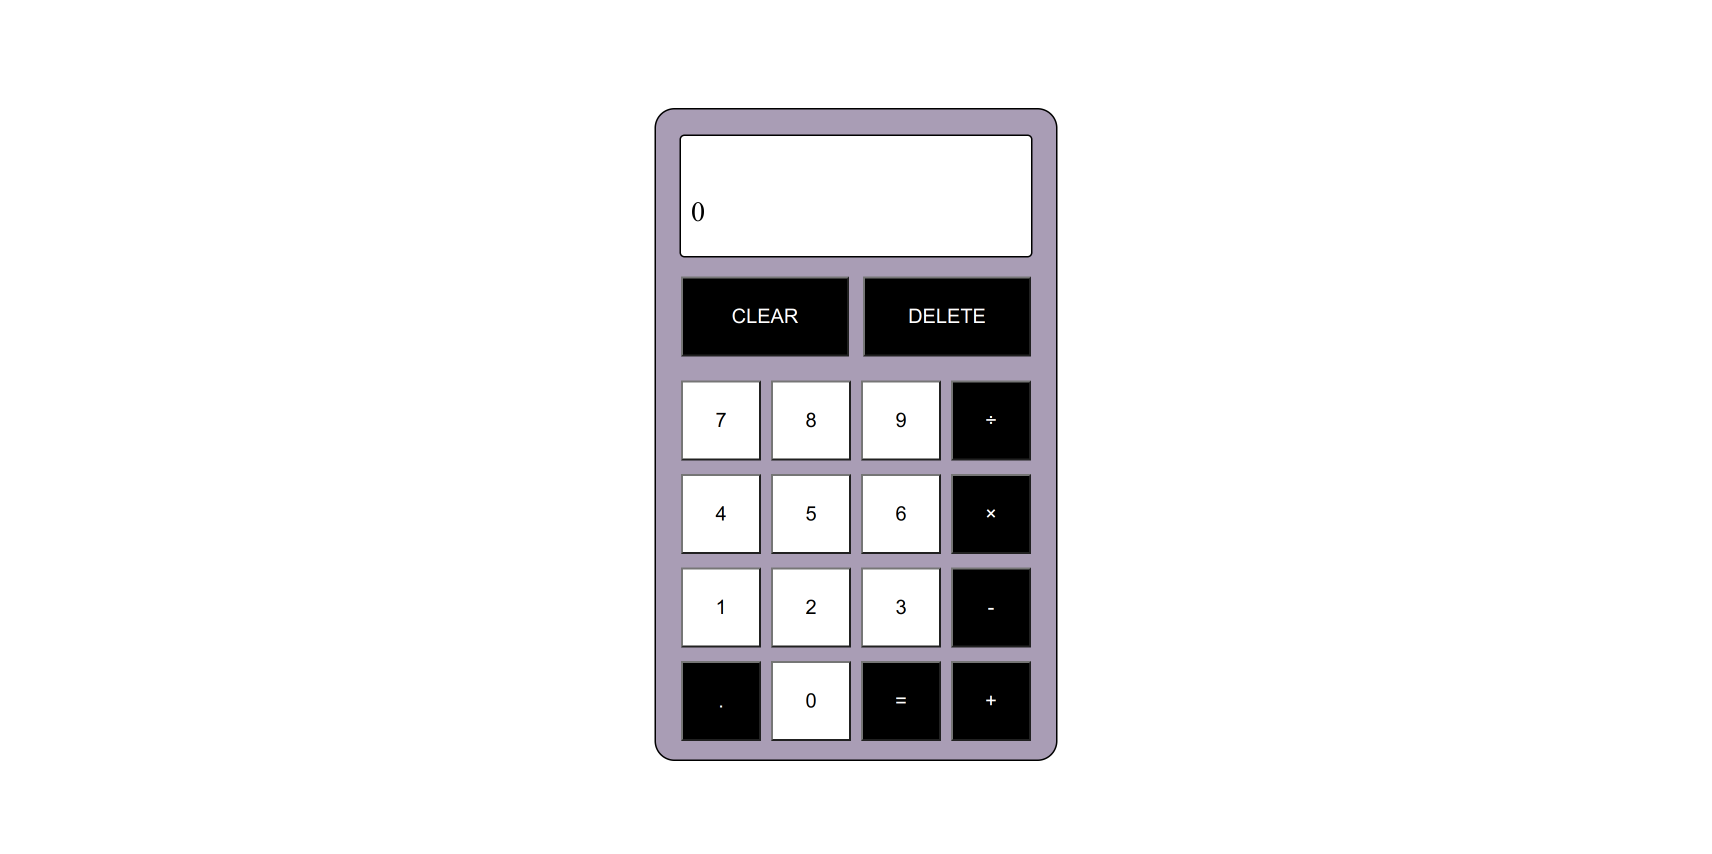
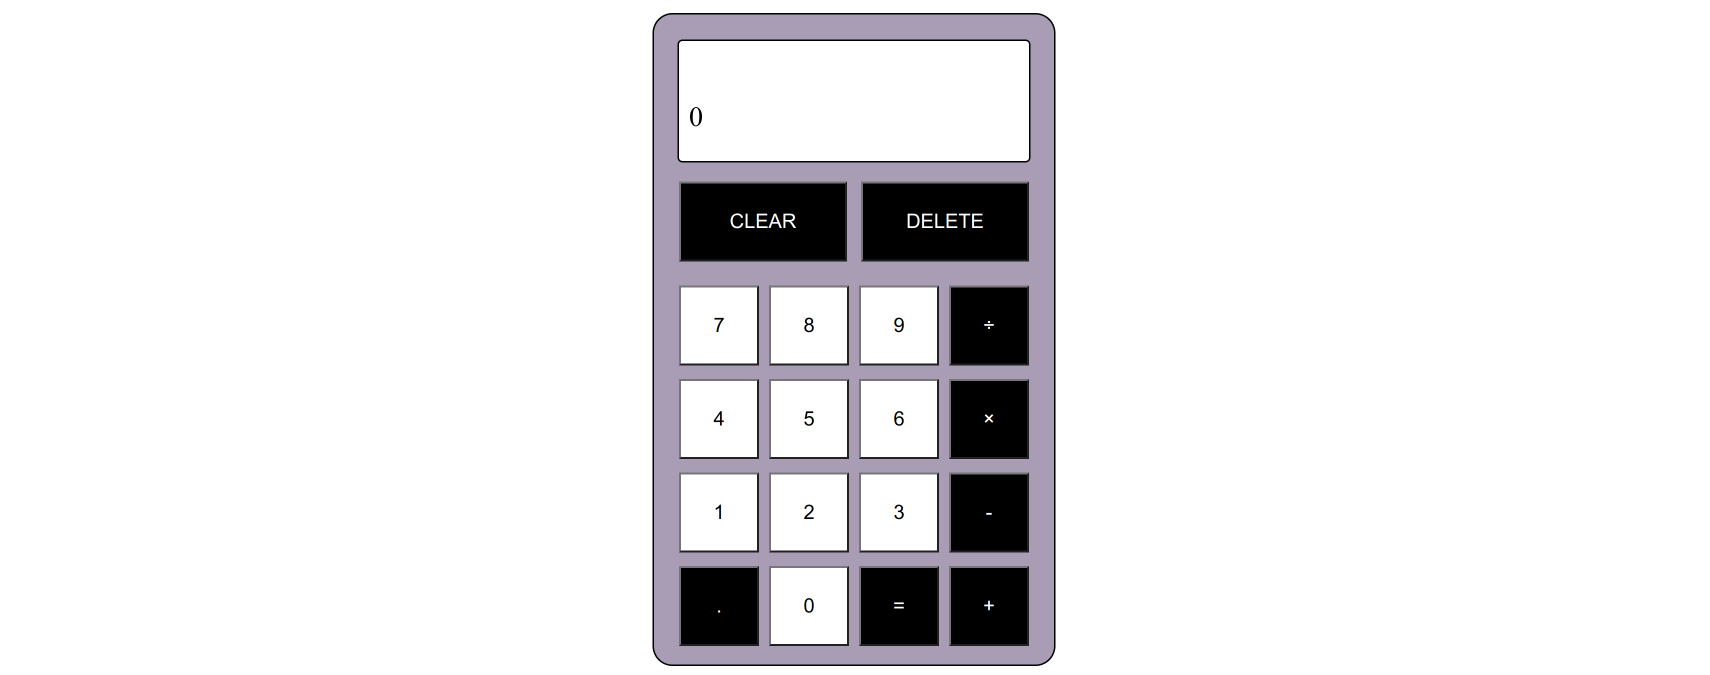
Improve screenshot aspect ratio Improve class names add more semantic elements to html

Changed region(s): [[0.3719, 0.0, 0.6199, 0.9956]]

diff --git a/index.html b/index.html
@@ -10,84 +10,81 @@
     <div class="wrapper">
         <header>
             <div class="header-top">
-                <div class="name-container">
-                    <h1 id="name">Yasser</h1>
-                </div>
-                <ul>
-                    <li><a href="#about">About Me</a></li>
-                    <li><a href="#work">Work</a></li>
-                    <li><a href="#contact">Contact Me</a></li>
-                    <li><a href="https://www.prospects.ac.uk/careers-advice/cvs-and-cover-letters/example-cvs/skills-based-cv-example">CV</a></li>
+                <h1 id="name">Yasser</h1>
+                <ul class="nav-links">
+                    <li><a class="nav-link" href="#about">About Me</a></li>
+                    <li><a class="nav-link" href="#work">Work</a></li>
+                    <li><a class="nav-link" href="#contact">Contact Me</a></li>
+                    <li><a class="nav-link" href="https://www.prospects.ac.uk/careers-advice/cvs-and-cover-letters/example-cvs/skills-based-cv-example">CV</a></li>
                 </ul>
             </div>
             <div class="header-bottom">
-                <img class="banner" src="./assets/images/banner2.png" alt="banner">
+                <img class="banner" src="./assets/images/banner.png" alt="banner">
                 <h3>Web developer</h3>
             </div>
         </header>
-        <div class="about-wrapper flex">
+        <section class="about-section flex">
             <h1 id="about">About Me</h1>
-            <p>I have recently gotten into web development. It started as a hobby as I have always loved working with computers. Recently, I decided to turn this hobyy into a career. It is not going to be easy to break into this field.<br><br>
-            However, with the kind of motivation and dedication that I see in myself, I think it is very much doable. When I start coding, I  lose track of time and basically forget about the world! My family does not like this, but hopefully I will be able to dial it down, once I have broken into the field.</p>
-        </div>
-        <div class="work-wrapper flex">
+            <p>I have recently gotten into web development. It started as a hobby as I have always loved working with computers. Recently, I decided to turn this hoby into a career. It is not going to be easy to break into this field as it is quite saturated.<br><br>
+            However, with the kind of motivation and dedication that I see in myself, I think it is very much doable. When I start coding, I  lose track of time and basically forget about the world! Below, I am showcasing some of the web pages and apps I have designed and deployed so far. How do you find the for a beginner?</p>
+        </section>
+        <section class="work-section flex">
             <h1 id="work">Work</h1>
             <div class="work-grid">
-                <div class="first work relative">
+                <div class="first-work relative">
                     <a href="https://yrezvani.github.io/library/">
-                        <img class="first-screenshot" src="./assets/images/Library.png" alt="library">
+                        <img class="first-screenshot" src="./assets/images/library.png" alt="library website">
                     </a>
                     <div class="text-box first-text">
                         <h5>Library</h5>
                         <p>HTML/CSS/JS</p>
                     </div>
                 </div>
-                <div class="second work relative">
+                <div class="second-work relative">
                     <a href="https://yrezvani.github.io/rock-paper-scissors/">
                         <img class="screenshot" src="./assets/images/Rock.png" alt="rock paper scissors website" height="100">
                     </a>
-                    <div class="text-box second-text">
+                    <div class="text-box">
                         <h5>Rock Paper Scissors</h5>
                         <p>HTML/CSS/JS</p>
                     </div>
                 </div>
-            
-                <div class="third work relative">
+                <div class="third-work relative">
                     <a href="https://yrezvani.github.io/sign-up-form/">
                         <img class="screenshot" src="./assets/images/sign-up.png" alt="sign-up form" height="100">
                     </a>
-                    <div class="text-box third-text">
+                    <div class="text-box">
                         <h5>Sign-up Form</h5>
                         <p>HTML/CSS</p>
                     </div>
                 </div>
-            
-            
-                <div class="fourth work relative">
+                <div class="fourth-work relative">
                     <a href="https://yrezvani.github.io/sketchpad-toy/">
                         <img class="screenshot" src="./assets/images/etch-a-sketch.png" alt="Etch a sketch game website" height="100">
                     </a>
-                    <div class="text-box fourth-text">
+                    <div class="text-box">
                         <h5>Etch-a-Sketch</h5>
                         <p>HTML/CSS/JS</p>
                     </div>
                 </div>
-            
-                <div class="fifth work relative">
+                <div class="fifth-work relative">
                     <a class="work-link" href="https://yrezvani.github.io/calculator/">
                         <img class="screenshot" src="./assets/images/calc.png" alt="calculator" height="300">
                     </a>
-                    <div class="text-box fifth-text">
+                    <div class="text-box">
                         <h5>Calculator</h5>
                         <p>HTML/CSS/JS</p>
                     </div>
                 </div>
             </div>
-        </div>
-        <footer class="contact-wrapper flex">
+        </section>
+        <footer class="contact-section flex">
             <h1 id="contact">Contact Me</h1>
             <ul>
-                <a href="">5555555</a><a href="mailto:yaserrezvany@gmail.com">yaserrezvany@gmail.com</a><a href="https://github.com/yrezvani?tab=repositories">Github</a><a href="https://twitter.com/?lang=en">Twitter</a>
+                <a class="footer-link" href="">5555555</a>
+                <a class="footer-link" href="mailto:yaserrezvany@gmail.com">yaserrezvany@gmail.com</a>
+                <a class="footer-link" href="https://github.com/yrezvani?tab=repositories">Github</a>
+                <a class="footer-link" href="https://twitter.com/?lang=en">Twitter</a>
             </ul>
         </footer>
     </div>

diff --git a/style.css b/style.css
@@ -10,9 +10,9 @@
     font-family: "Roboto-Regular", Verdana, sans-serif;
 }
 
-/* General styling for both screen sizes */
+/* General styling */
 body {
-    background-color: #c4c6cb;
+    background-color: #d6d8dd;
 }
 
 .header-top {
@@ -29,9 +29,10 @@ body {
     padding-right: 7vw;
 }
 
-.header-top li a {
+.nav-link {
     color: #9db6ec;
     text-decoration: none;
+    font-size: 18px;
 }
 
 
@@ -114,9 +115,9 @@ h5 + p {
     }
 
     /* Placing titles and content side by side */
-    .about-wrapper,
-    .work-wrapper,
-    .contact-wrapper {
+    .about-section,
+    .work-section,
+    .contact-section {
         display: flex;
         gap: 3vw;
     }
@@ -131,11 +132,11 @@ h5 + p {
         width: 78%;
     }
 
-    .first {
+    .first-work {
         grid-column: span 2;
     }
 
-    .contact-wrapper a {
+    .contact-section a {
         align-self: flex-end;
         padding-bottom: 3vh;
     }
@@ -144,7 +145,7 @@ h5 + p {
         margin-bottom: 2vh;
     }
 
-    footer ul a {
+    .footer-link {
         color: rgb(20, 20, 99);
         font-size: 20px;
     }
@@ -170,7 +171,7 @@ h5 + p {
         width: 77%;
     }
 
-    footer ul a {
+    .footer-link {
         font-size: 16px;
         width: 77%;
     }
@@ -196,7 +197,7 @@ h5 + p {
         width: 75%;
     }
 
-    footer ul a {
+    .footer-link {
         font-size: 13px;
         width: 75%;
     }
@@ -279,7 +280,7 @@ footer ul {
         font-size: 14px;
     }
     
-    .header-top li a {
+    .nav-link {
         font-size: 13px;
     }
 
@@ -326,7 +327,7 @@ footer ul {
 
     }
 
-    footer ul a {
+    .footer-link {
         font-size: 13px;
         padding: 0 1vw;
     }
